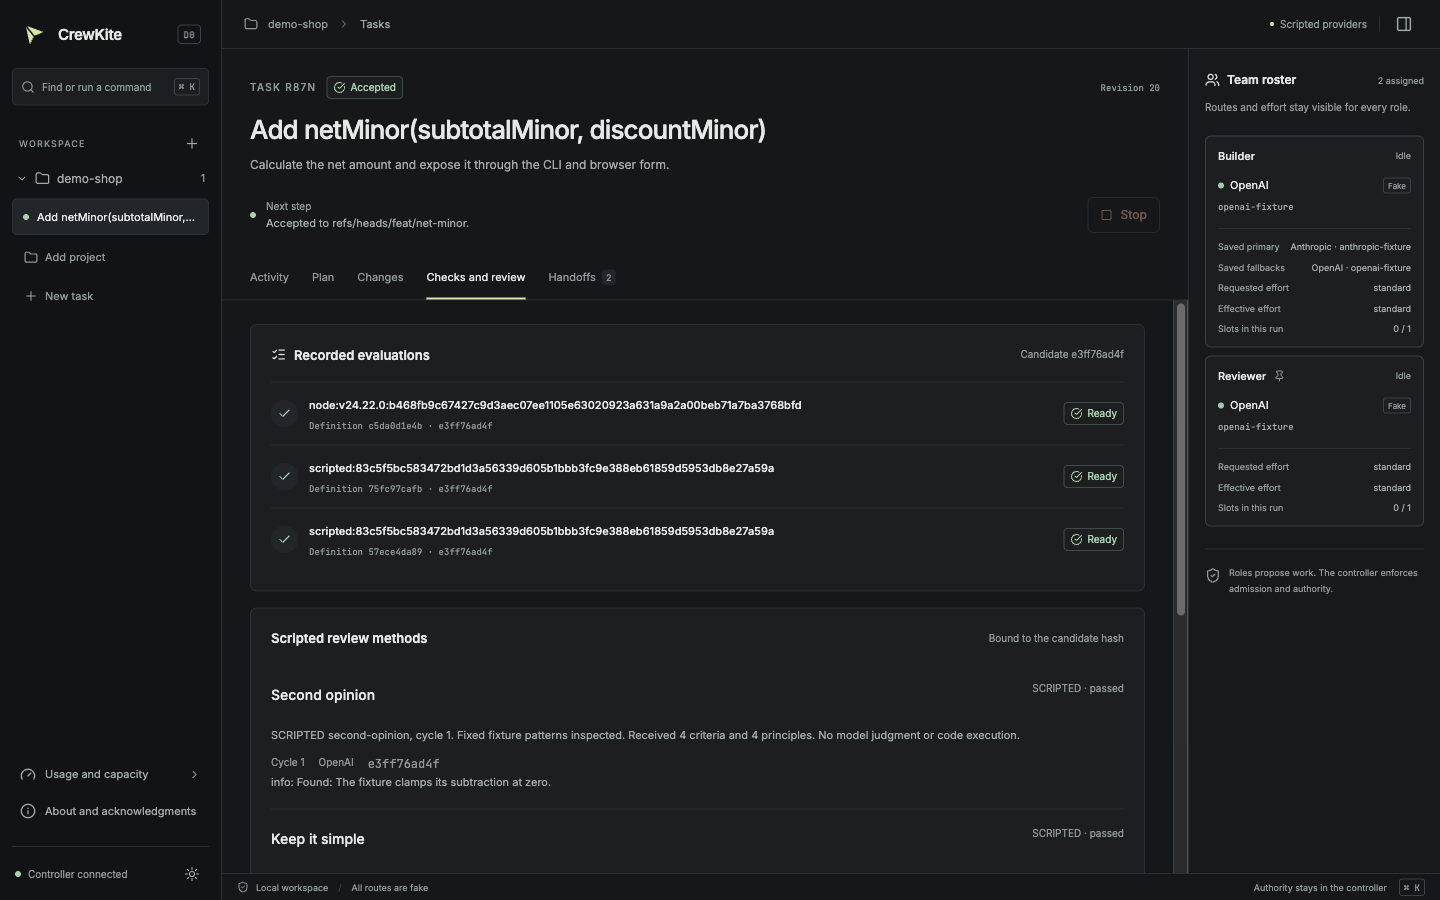
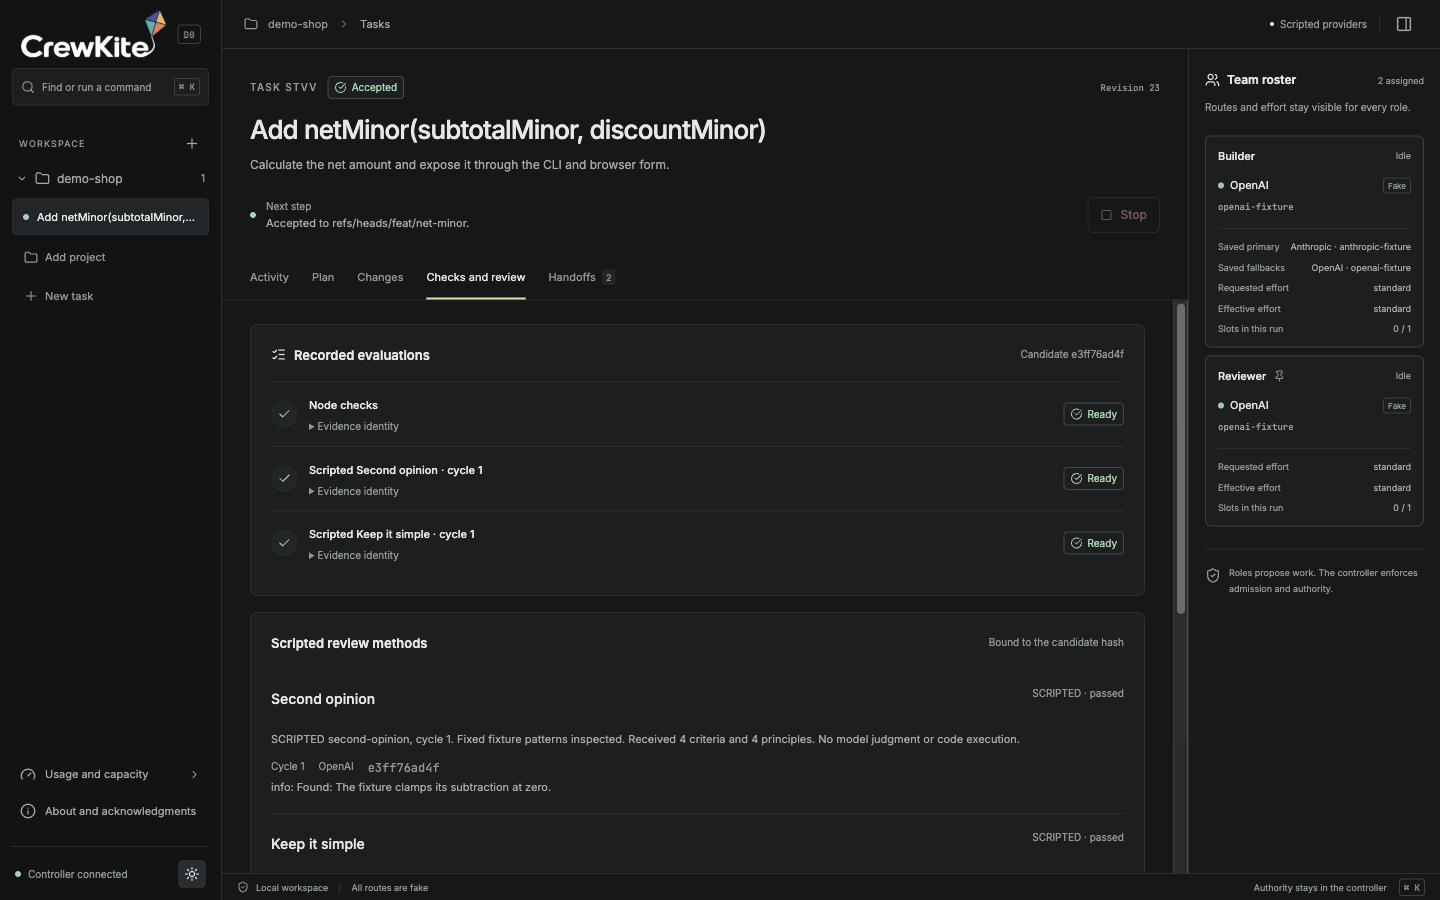
feat(desktop): apply supplied branding and readable evidence labels
Use transparent wordmarks for each theme while preserving the colored kite and the existing About action. Keep the wordmark bounded beside the D0 marker and reuse the canonical assets in the README.

Give checks and scripted review cycles readable headings. Native disclosure details retain the complete evaluator, definition and candidate identity, and refreshed connected screenshots show the final interface.

diff --git a/apps/desktop/src/renderer/app.tsx b/apps/desktop/src/renderer/app.tsx
@@ -42,6 +42,8 @@ import {
   X,
 } from 'lucide-react';
 import { type FormEvent, type ReactNode, type RefObject, useEffect, useRef, useState } from 'react';
+import wordmark from './assets/crewkite-wordmark.png';
+import inverseWordmark from './assets/crewkite-wordmark-inverse.png';
 import {
   Dialog,
   Fact,
@@ -231,13 +233,13 @@ export function App() {
           onClick={() => setAbout(true)}
           aria-label="About CrewKite"
         >
-          <span className="brand-mark">
-            <svg viewBox="0 0 24 24" aria-hidden="true">
-              <path d="M4 4 21 10 12 14 8 22 4 4Z" fill="currentColor" />
-              <path d="m4 4 8 10" stroke="var(--sidebar)" strokeWidth="1.5" />
-            </svg>
-          </span>
-          <span>CrewKite</span>
+          <img
+            className="brand-wordmark"
+            src={theme === 'light' ? wordmark : inverseWordmark}
+            alt="CrewKite"
+            width={1024}
+            height={341}
+          />
           <span className="prototype-tag">D0</span>
         </button>
         <button type="button" className="search-button" onClick={() => setPalette(true)}>
@@ -1344,11 +1346,20 @@ function Checks({
                 <span className={`result-symbol ${value.passed ? 'passed' : 'failed'}`}>
                   {value.passed ? <Check size={14} /> : <X size={14} />}
                 </span>
-                <div>
-                  <strong>{value.evaluator}</strong>
-                  <code>
-                    Definition {short(value.definitionHash)} · {short(value.candidateHash)}
-                  </code>
+                <div className="evidence-copy">
+                  <strong>
+                    {value.review
+                      ? `Scripted ${titleCase(value.review.job.methodId.replaceAll('-', ' '))} · cycle ${value.review.job.cycle}`
+                      : value.evaluator.startsWith('node:')
+                        ? 'Node checks'
+                        : 'Recorded check'}
+                  </strong>
+                  <details>
+                    <summary>Evidence identity</summary>
+                    <code>Evaluator {value.evaluator}</code>
+                    <code>Definition {value.definitionHash}</code>
+                    <code>Candidate {value.candidateHash}</code>
+                  </details>
                 </div>
                 <StateChip state={value.passed ? 'ready' : 'failed'} />
               </div>

diff --git a/apps/desktop/src/renderer/style.css b/apps/desktop/src/renderer/style.css
@@ -313,19 +313,18 @@ td:first-child .provider-dot {
   font-weight: 600;
   letter-spacing: -0.35px;
 }
-.brand-mark {
-  display: grid;
-  place-items: center;
-  width: 28px;
-  height: 28px;
-  color: var(--accent);
-}
-.brand-mark svg {
-  width: 25px;
-  height: 25px;
+.brand-wordmark {
+  display: block;
+  flex: 1;
+  min-width: 0;
+  max-width: 148px;
+  height: 50px;
+  object-fit: contain;
+  object-position: left center;
 }
 .prototype-tag {
   margin-left: auto;
+  flex-shrink: 0;
   font-family: "JetBrains Mono", monospace;
   font-size: 9px;
   letter-spacing: 0.3px;
@@ -1381,11 +1380,21 @@ kbd {
   font-size: 11px;
   font-weight: 500;
 }
+.evidence-copy {
+  flex: 1;
+  min-width: 0;
+}
+.evidence-list summary {
+  margin-top: 5px;
+  font-size: 10px;
+  color: var(--text-dim);
+}
 .evidence-list code {
   display: block;
   margin-top: 5px;
   font-size: 9px;
   color: var(--text-dim);
+  overflow-wrap: anywhere;
 }
 .evidence-list .state-chip {
   margin-left: auto;

diff --git a/README.md b/README.md
@@ -1,5 +1,10 @@
 # CrewKite
 
+<picture>
+  <source media="(prefers-color-scheme: dark)" srcset="apps/desktop/src/renderer/assets/crewkite-wordmark-inverse.png">
+  <img src="apps/desktop/src/renderer/assets/crewkite-wordmark.png" alt="CrewKite" width="320" height="107">
+</picture>
+
 CrewKite is a desktop workspace and CLI for coding with local models and the official coding clients from OpenAI, Anthropic and Google in one place. It shows what each subscription reports about usage and reset windows, assigns work using those limits, and keeps every task recoverable so another provider can continue it when one stops mid-task.
 
 Status: early prototype. The first milestone runs the whole journey against scripted fake providers. No live provider route is qualified yet.
